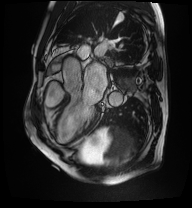
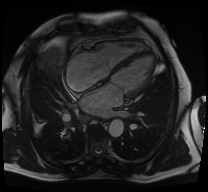
correct heart images remove main.py update gitignore

diff --git a/export/image_export.py b/export/image_export.py
@@ -2,42 +2,31 @@ import os
 import io
 import zipfile
 from pydicom.filereader import dcmread
-import cv2
 import numpy as np
 from os.path import basename
-import debugpy
 import imageio
 
 directory = '/dhc/projects/ukbiobank/original/imaging/heart_mri/lax/archive'
-output_dir = '/dhc/home/tim.depping/GitHub/master_project/heart_images/'
-output_file_name = "images"
+output_dir = './heart_image_export'
+output_file_name = "heart_image_files"
 counter = 0
-max_counter = 1
+max_counter = 100
 
-debugpy.listen(5678)
-print("Waiting for debugger attach")
-debugpy.wait_for_client()
-
-for filename in os.listdir(directory):
-    f = os.path.join(directory, filename)
-    if filename.endswith(".zip"):
+os.makedirs(output_dir, exist_ok=True)
+for patient_file_name in os.listdir(directory):
+    if patient_file_name.endswith(".zip"):
         counter += 1
-        archive = zipfile.ZipFile(f, 'r')
-        ds = dcmread(io.BytesIO(archive.read(archive.filelist[0])))
-        img = ds.pixel_array
-        img = np.array(img, dtype = float) 
-        img = (img - img.min()) / (img.max() - img.min()) * 255.0  
-        img = img.astype(np.uint8)
-        # new_img = np.zeros_like(img, dtype=np.uint16)
-        # for iy, ix in np.ndindex(img.shape):
-        #     new_img[iy][ix] = img[iy][ix]
-        #     print(type(img[iy][ix]))
-        png_filename = f'{output_dir}{filename}_f1.png'.replace('.zip', '')
-        # test_img = np.arange(34944,dtype=np.uint16).reshape(168,208)
-        debugpy.breakpoint()
-        print(png_filename)
-        imageio.imwrite(png_filename,img) 
-        # cv2.imwrite(png_filename,test_img) 
+        archive = zipfile.ZipFile(os.path.join(directory, patient_file_name), 'r')
+        for index, imaging_file in enumerate(archive.filelist):
+            if imaging_file.filename.endswith(".dcm"):
+                ds = dcmread(io.BytesIO(archive.read(imaging_file)))
+                if ds.SeriesDescription == 'CINE_segmented_LAX_4Ch':
+                    img = np.array(ds.pixel_array, dtype = float)
+                    img = (img - img.min()) / (img.max() - img.min()) * 255.0  
+                    img = img.astype(np.uint8)
+                    png_filename = f'{output_dir}/{patient_file_name}_f1.png'.replace('.zip', '')
+                    imageio.imwrite(png_filename,img)
+                    break
     if counter == max_counter:
         break
 

diff --git a/feature_condensation.py b/feature_condensation.py
@@ -40,7 +40,6 @@ def main():
         default='results',
         help='Directory to save the results',
     )
-    # TODO: Is this the path to the images on the DHC server?
     parser.add_argument(
         '--base_img_dir',
         type=str,
@@ -291,24 +290,23 @@ def compute_embeddings(
     num_threads (int): how many torch CPU-threads
     '''
     torch.set_num_threads(num_threads)
-
     output = [[] for _ in layer_funcs]
     hooks = []
     for idx, layer_func in enumerate(layer_funcs):
         hook = layer_func(model).register_forward_hook(
             lambda m, i, o, idx=idx: output[idx].append(o.detach()))
         hooks.append(hook)
-
+    
     tmp_img = dset[0][0]
     if len(tmp_img.shape) == 3:
         tmp_img.unsqueeze_(0)
     n_tfm = tmp_img.shape[0]
     _ = model(tmp_img.to(dev))
     shapes = [out[0].shape[1] * n_tfm for out in output]
+    # TODO: Why clear output array items?
     for i in range(len(output)): output[i] = []
 
     embeddings = [np.empty((len(dset), shape)) for shape in shapes]
-
     for sample_idx, (img, iid) in tqdm(enumerate(dset), total=len(dset)):
         with torch.no_grad():
             if len(img.shape) == 3:

diff --git a/export/dicom_export.py b/export/dicom_export.py
@@ -9,15 +9,12 @@ import debugpy
 import imageio
 
 directory = '/dhc/projects/ukbiobank/original/imaging/heart_mri/lax/archive'
-output_dir = '/dhc/home/tim.depping/GitHub/master_project/heart_dicom_files'
+output_dir = './heart_dicom_export'
 output_file_name = "heart_dicom_files"
 counter = 0
-max_counter = 2000
+max_counter = 100
 
-# debugpy.listen(5678)
-# print("Waiting for debugger attach")
-# debugpy.wait_for_client()
-
+os.makedirs(output_dir, exist_ok=True)
 for patient_file_name in os.listdir(directory):
     if patient_file_name.endswith(".zip"):
         counter += 1
